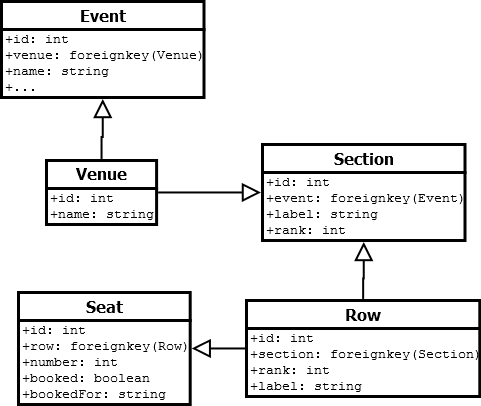
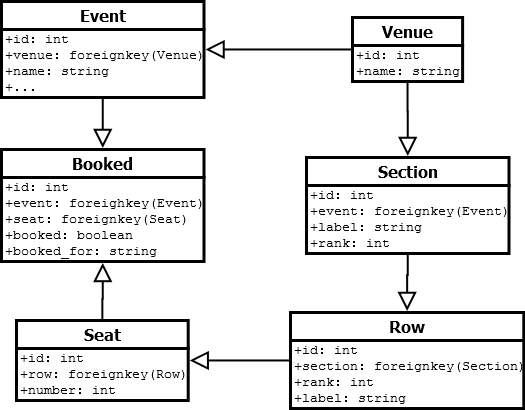
upgrade db model to be able to book a seat for different event

Changed region(s): [[0.0, 0.0, 1.0, 1.0]]

diff --git a/booking/migrations/0003_auto_20150724_1556.py b/booking/migrations/0003_auto_20150724_1556.py
@@ -1,0 +1,36 @@
+# -*- coding: utf-8 -*-
+from __future__ import unicode_literals
+
+from django.db import models, migrations
+
+
+class Migration(migrations.Migration):
+
+    dependencies = [
+        ('booking', '0002_auto_20150724_0930'),
+    ]
+
+    operations = [
+        migrations.CreateModel(
+            name='Book',
+            fields=[
+                ('id', models.AutoField(primary_key=True, auto_created=True, serialize=False, verbose_name='ID')),
+                ('booked', models.BooleanField(editable=False)),
+                ('booked_for', models.CharField(max_length=50)),
+                ('event', models.ForeignKey(to='booking.Event')),
+            ],
+        ),
+        migrations.RemoveField(
+            model_name='seat',
+            name='booked',
+        ),
+        migrations.RemoveField(
+            model_name='seat',
+            name='booked_for',
+        ),
+        migrations.AddField(
+            model_name='book',
+            name='seat',
+            field=models.ForeignKey(to='booking.Seat'),
+        ),
+    ]

diff --git a/booking/models.py b/booking/models.py
@@ -50,11 +50,15 @@ class Row(models.Model):
 class Seat(models.Model):
     row = models.ForeignKey(Row)
     number = models.IntegerField()
-    booked = models.BooleanField(editable=False)
-    booked_for = models.CharField(max_length=50)
 
     class Meta:
         ordering = ["number"]
 
     def __str__(self):
         return self.number
+
+class Book(models.Model):
+    event = models.ForeignKey(Event)
+    seat = models.ForeignKey(Seat)
+    booked = models.BooleanField(editable=False)
+    booked_for = models.CharField(max_length=50)
